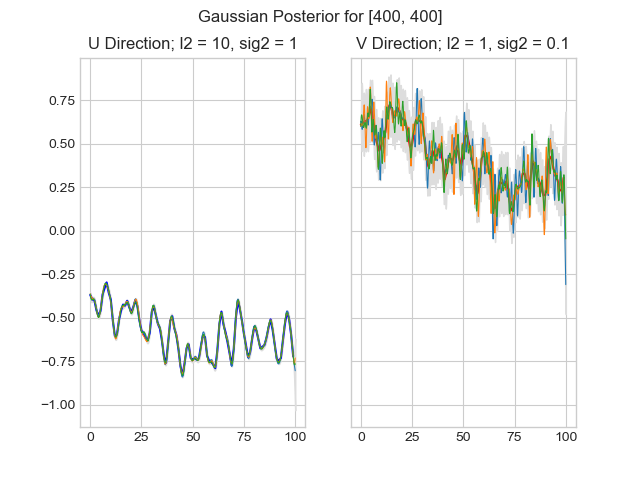
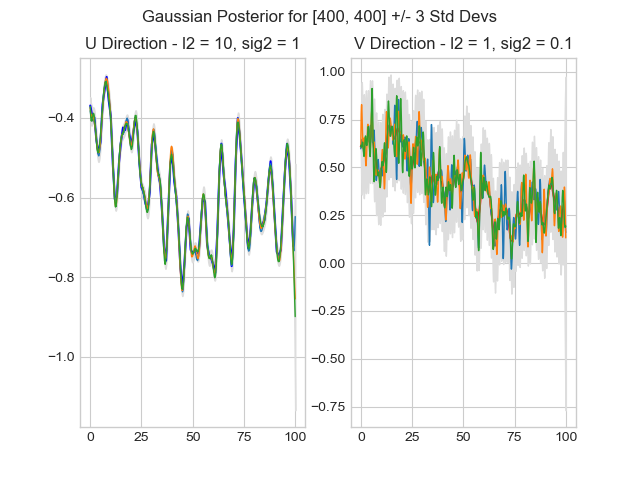
All functions work as expected

diff --git a/OceanFlow.py b/OceanFlow.py
@@ -178,8 +178,8 @@ def plot_crash_coordinates_gauss_prior(u_3d, v_3d, plane_crash_coordinates, hype
         L = np.linalg.cholesky(K_ss + 1e-15 * np.eye(t))
         f_prior = np.dot(L, rng.normal(size=(t, 3)))
         ax.plot(time, velocity, c=color, linewidth=1.5)
-        ax.plot(time, f_prior, linewidth=.75)
-        ax.set_title(f"{dir} Direction; l2 = {param_l}, sig2 = {param_s}")
+        ax.plot(time, f_prior, linewidth=.75, alpha=.75)
+        ax.set_title(f"{dir} Direction - l2 = {param_l}, sig2 = {param_s}")
     plt.suptitle(f"Gaussian Prior for [{x}, {y}]")
     plt.savefig(f"OceanFlowImages/gaussian_prior.png", format="png")
     plt.show()
@@ -189,7 +189,7 @@ def plot_crash_coordinates_gauss_posterior(u_3d, v_3d, plane_crash_coordinates, 
     """Will only use the first two parameters of l2 and sig2"""
     l2 = hyperparameters["l2"][0:2]
     sig2 = hyperparameters["sig2"][0:2]
-    fig, axes = plt.subplots(nrows=1, ncols=2, sharex=True, sharey=True)
+    fig, axes = plt.subplots(nrows=1, ncols=2)
     x, y = plane_crash_coordinates
     n = 1000
     for array, dir, color, ax, l_param, s_param in zip([u_3d, v_3d], ["U", "V"], ['b', 'r'], axes, l2, sig2):
@@ -208,10 +208,10 @@ def plot_crash_coordinates_gauss_posterior(u_3d, v_3d, plane_crash_coordinates, 
         L = np.linalg.cholesky(K_ss + 1e-6 * np.eye(n) - np.dot(Lk.T, Lk))  # 1000 x 1000
         f_post = mu.reshape(-1, 1) + np.dot(L, np.random.normal(size=(n, 3)))  # 1000 x 3
         ax.plot(Xtrain, Ytrain, c=color, linewidth=1.5)
-        ax.plot(Xtest, f_post, linewidth=.75)
-        ax.set_title(f"{dir} Direction; l2 = {l_param}, sig2 = {s_param}")
-        ax.fill_between(Xtest.flat, mu - 2 * stdv, mu + 2 * stdv, color="#dddddd")
-    plt.suptitle(f"Gaussian Posterior for [{x}, {y}]")
+        ax.plot(Xtest, f_post, linewidth=1)
+        ax.set_title(f"{dir} Direction - l2 = {l_param}, sig2 = {s_param}")
+        ax.fill_between(Xtest.flat, mu - 3 * stdv, mu + 3 * stdv, color="#dddddd")
+    plt.suptitle(f"Gaussian Posterior for [{x}, {y}] +/- 3 Std Devs")
     plt.savefig(f"OceanFlowImages/{filename}.png", format="png")
     plt.show()
 
@@ -241,7 +241,7 @@ def Kfold_function(direction_vec, l2=None, sig2=None, tau=None, hyperparameters=
     """Performs k=20 K-Fold optimization given a set of hyperparameters. These can either be given explicitly with
     l2, sig2, or tau when doing parameter optimization or in dictionary format to keyword hyperparameters. More
     details about this algorithm can be found in the literature C. E. Rasmussen & C. K. I. Williams,
-    Gaussian Processes for Machine Learning, the MIT Press, 2005
+    Gaussian Processes for Machine Learning, the MIT Press, 2006
     :param direction_vec: 2D array (t, velocity) at a specific (x,y) coordinate
     :param l2: length scale
     :param sig2: variance
@@ -359,11 +359,11 @@ def main():
 
     # -------------------------------------------------------------------------------------------------------------#
 
-    ocean_streamplots(*uv_mask_data)
+    #ocean_streamplots(*uv_mask_data)
 
     # -------------------------------------------------------------------------------------------------------------#
 
-    correlations = find_dipoles(*uv_mask_data, plot=True)
+    #correlations = find_dipoles(*uv_mask_data, plot=True)
 
     # -------------------------------------------------------------------------------------------------------------#
 
@@ -371,7 +371,7 @@ def main():
     # that shows where the flow possibly took the parts as a function of the timestep and assumed variance
 
     plane_crash_coordinates = [400, 400]
-    plane_crash(*uv_mask_data, plane_crash_coordinates)
+    #plane_crash(*uv_mask_data, plane_crash_coordinates)
 
     # -------------------------------------------------------------------------------------------------------------#
     # The time steps are quite far apart, so you want to interpolate between seemingly random signals. How do you do
@@ -443,7 +443,7 @@ def main():
     # [Insert explanation about log likelihood]
 
     Kfold_hyperparameters = {"l2": 10, "sig2": .05, "tau": 1e-5}
-    Kfold_LL = Kfold_function(crash_u, Kfold_hyperparameters, plot=False)
+    Kfold_LL = Kfold_function(crash_u, hyperparameters=Kfold_hyperparameters, plot=False)
     print(f"KFold Example - The average log likelihood for l2 = {Kfold_hyperparameters['l2']} and "
           f"sig2 = {Kfold_hyperparameters['l2']} is {Kfold_LL}")
 
